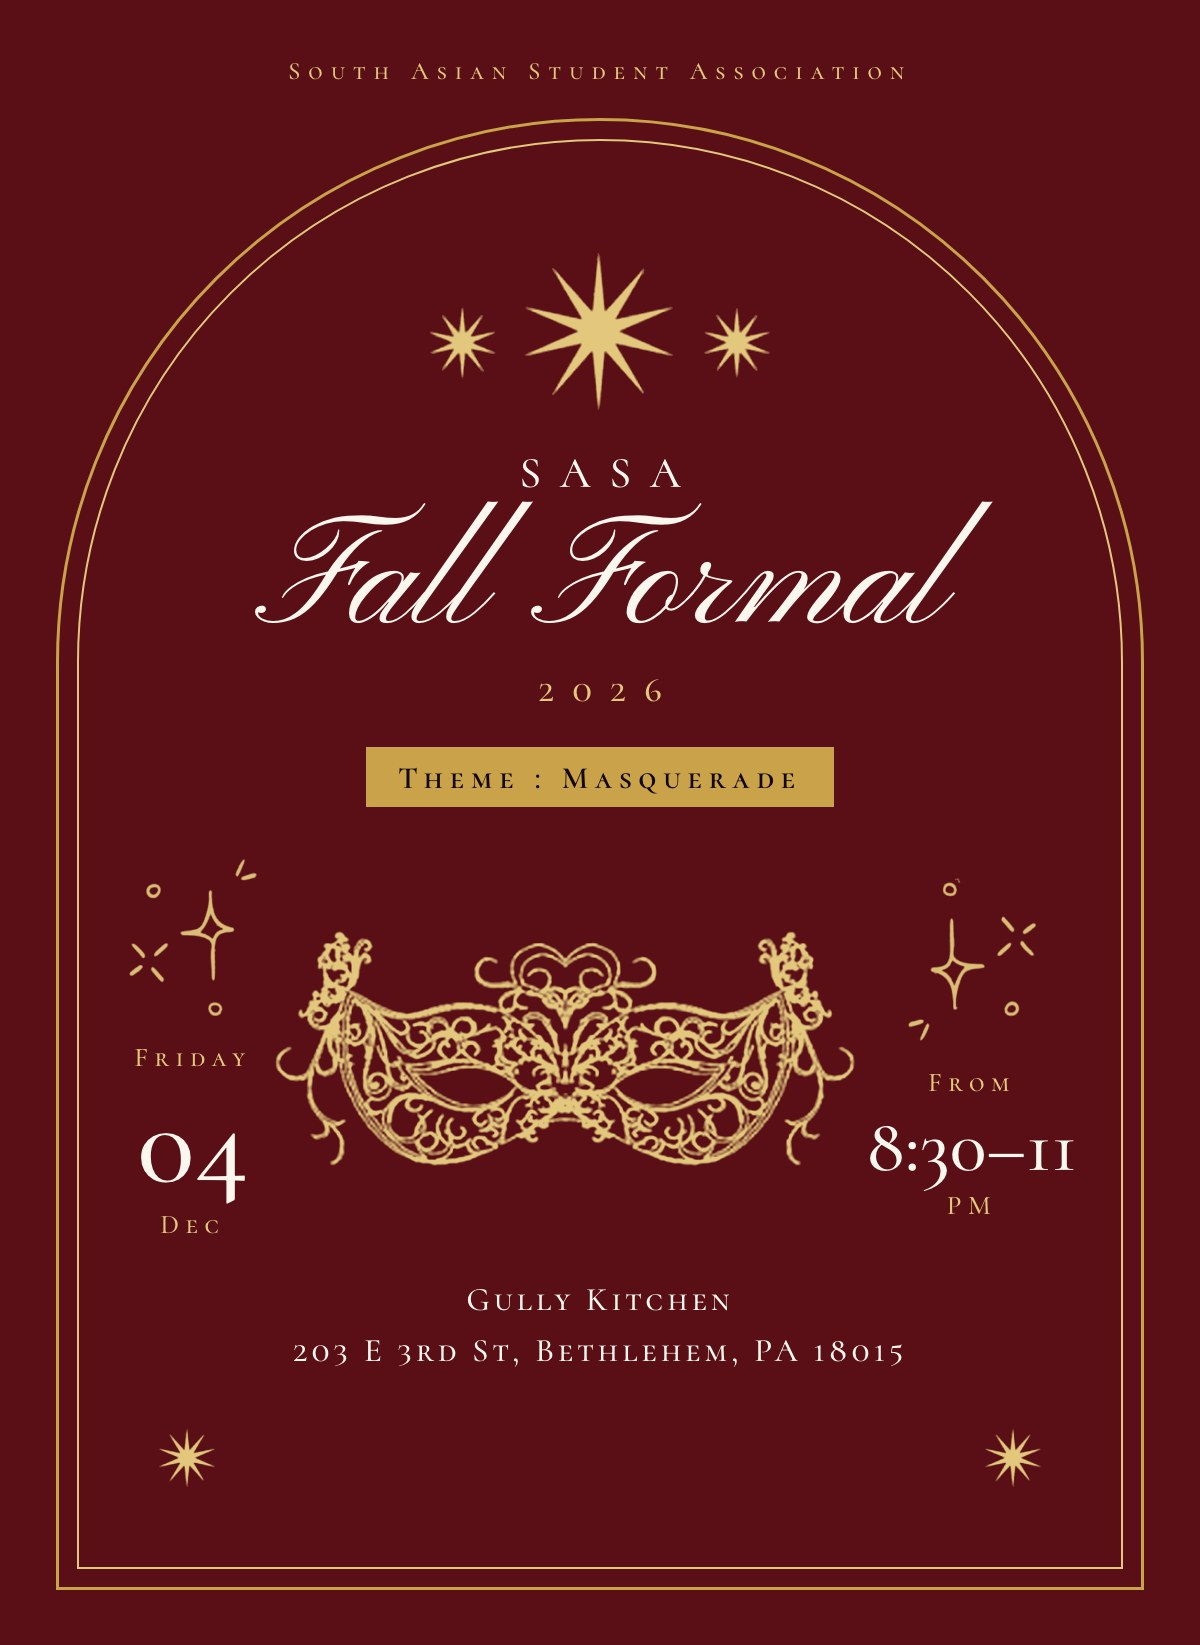
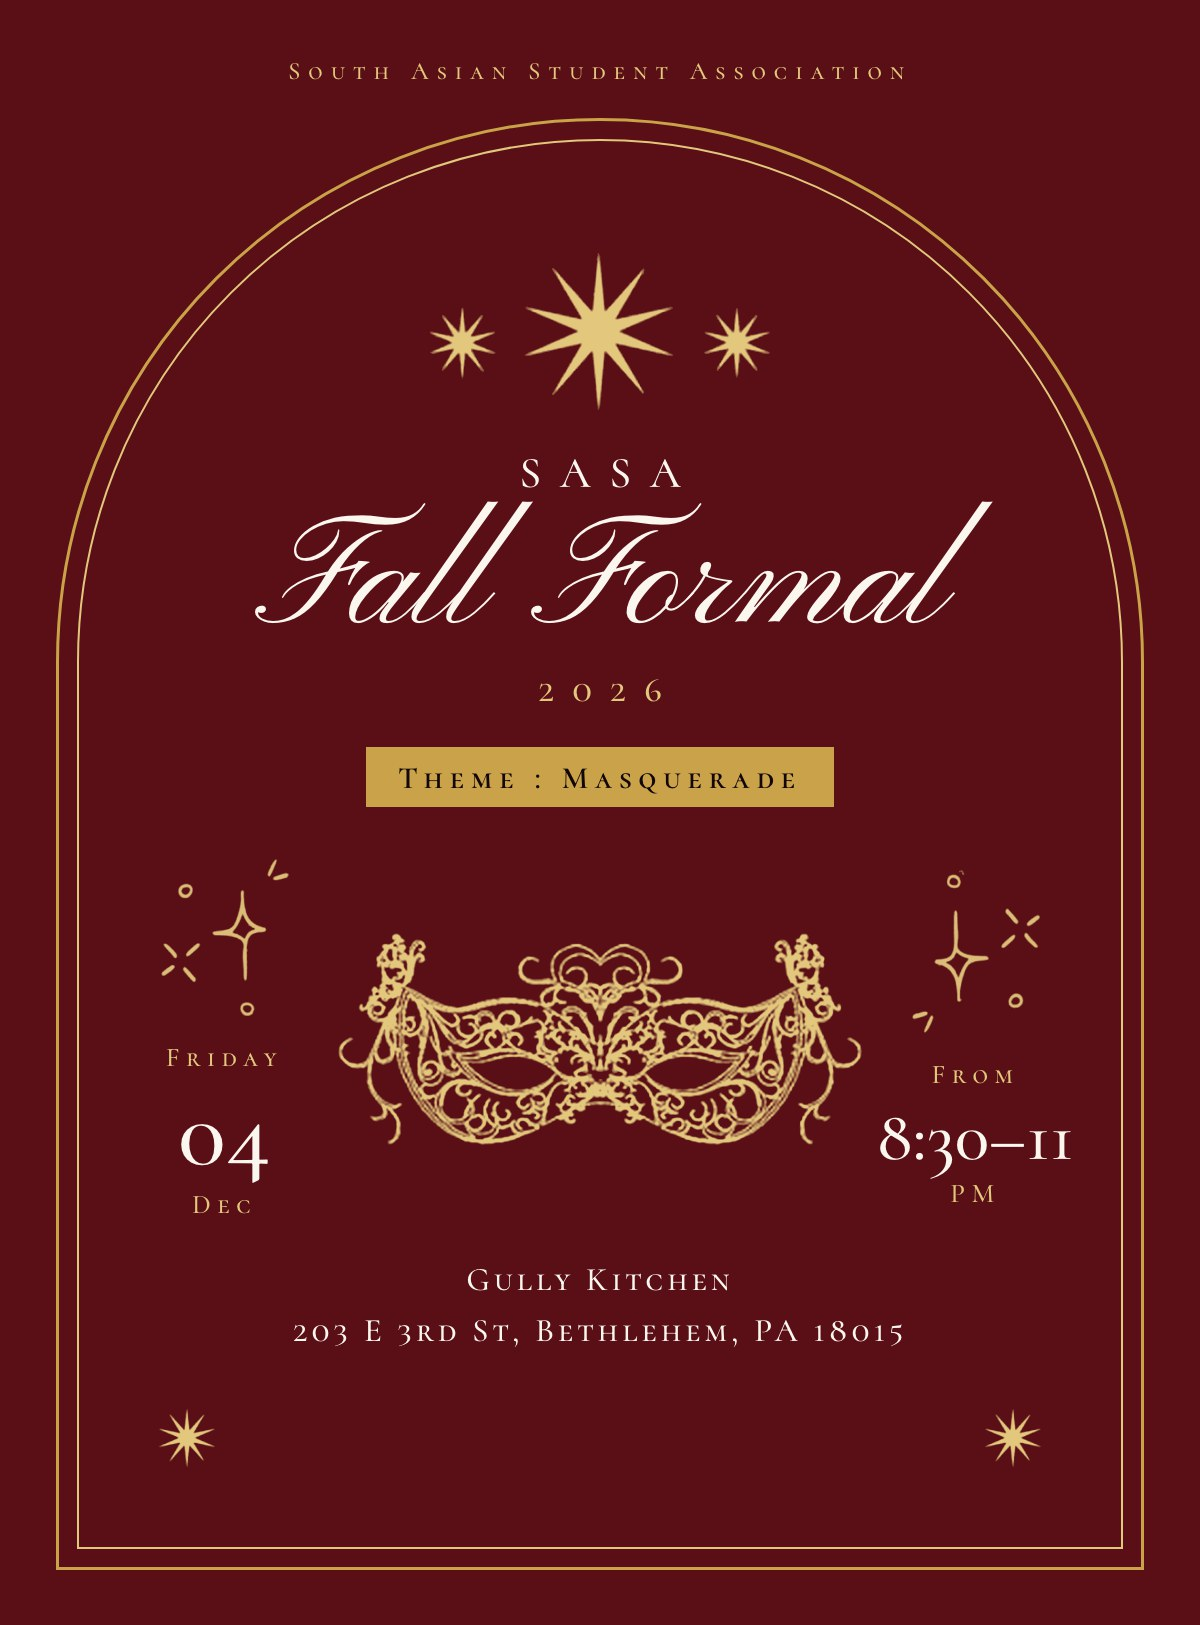
Center the mask; slightly smaller date and time numbers

diff --git a/invitation.html b/invitation.html
@@ -308,12 +308,16 @@
   .theme-line { font-size: 15.5px; font-weight: 600; }
   .rsvp { font-size: 14px; font-weight: 600; }
   .stamp .small { font-size: 13.5px; }
-  .stamp .big.time { font-size: clamp(30px, 6.4vw, 42px); }
+  .stamp .big { font-size: 50px; }
+  .stamp .big.time { font-size: 36px; }
 
   /* mask is wide, so give the middle column more room */
-  .feature { grid-template-columns: 1fr minmax(0, 290px) 1fr; margin-top: 26px; margin-bottom: 18px; }
+  /* equal side columns so the mask sits dead center */
+  .feature { grid-template-columns: minmax(0, 1fr) minmax(0, 262px) minmax(0, 1fr); margin-top: 26px; margin-bottom: 18px; }
   @media (max-width: 520px) {
-    .feature { grid-template-columns: 1fr minmax(0, 170px) 1fr; }
+    .feature { grid-template-columns: minmax(0, 1fr) minmax(0, 118px) minmax(0, 1fr); }
+    .stamp .big { font-size: 36px; }
+    .stamp .big.time { font-size: 22px; }
     .letter p { font-size: 16px; }
   }
 </style>
